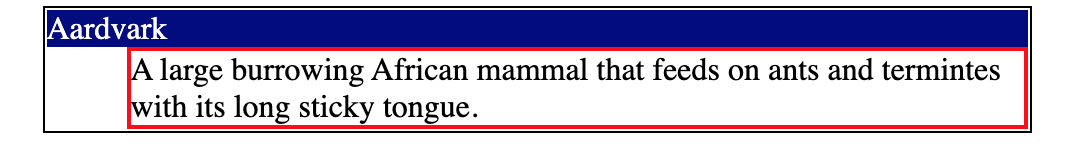
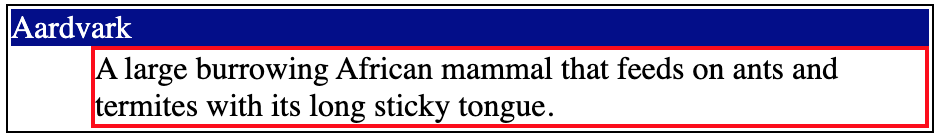
build/refactor: implemented feedback

Changed region(s): [[0.0, 0.0286, 1.0, 0.9714]]

diff --git a/content/html/concepts/tags/terms/dd/dd.md b/content/html/concepts/tags/terms/dd/dd.md
@@ -1,10 +1,11 @@
 ---
 Title: '<dd>'
-Description: ''
+Description: 'Describes details found inside a <dl> tag. It usually comes with at least one correspoinding <dt> tag.'
 Subjects:
   - 'Web Development'
   - 'Web Design'
 Tags:
+  - 'Lists'
   - 'Tags'
 CatalogContent:
   - 'learn-html'
@@ -32,13 +33,13 @@ In the example below, the `<dd>` is used (and highlighted with some styling):
 <!DOCTYPE html>
 <html>
   <head>
-    <!-- Styles are omitted for purposes of this example. -->
+    <!-- Styles are omitted in this example. -->
   </head>
   <body>
     <dl>
       <dt class="term">Aardvark</dt>
       <dd class="detail">
-        A large burrowing African mammal that feeds on ants and termintes with
+        A large burrowing African mammal that feeds on ants and termites with
         its long sticky tongue.
       </dd>
     </dl>

diff --git a/content/css/concepts/selectors/selectors.md b/content/css/concepts/selectors/selectors.md
@@ -70,7 +70,7 @@ element[attribute='value'] {
 
 The `id` of an element is unique within a page, so the `id` selector is used to select one unique element. An element can be selected with a specific `id`, by using a hash (`#`) character, followed by the `id` of the element.
 
-Multiple `class` values can be assigned to a single element. Elements are selected by `class` with a period (`.`) character, followed by the class name. Unlike `id` values, `class` values can be duplicated on a page with difference elements.
+Multiple `class` values can be assigned to a single element. Elements are selected by `class` with a period (`.`) character, followed by the class name. Unlike `id` values, `class` values can be duplicated on a page with different elements.
 
 ### Example
 

diff --git a/content/html/concepts/tags/terms/link/link.md b/content/html/concepts/tags/terms/link/link.md
@@ -29,7 +29,7 @@ The two primary attributes are:
 - A `rel` to describe the format of the external source.
 - An `href` that contains the filepath to the external source.
 
-It is a best practice that the `<link>` tag is always defined inside the [`<head>`](https://www.codecademy.com/resources/docs/html/tags/head) tag.
+It is best practice that the `<link>` tag is always defined inside the [`<head>`](https://www.codecademy.com/resources/docs/html/tags/head) tag.
 
 ## Example
 

diff --git a/content/html/concepts/links/links.md b/content/html/concepts/links/links.md
@@ -42,7 +42,7 @@ Anchor tags can be used to link to certain parts of a page with a matching `id` 
 
 ### Image Links
 
-Anything that is inside the anchor tag will be treated as a link. In this case the Codecademy logo will take the user to the Codecademy home page.
+Anything that is inside the anchor tag will be treated as a link. In this case, the Codecademy logo will take the user to the Codecademy home page.
 
 ```html
 <!-- Creating an image link -->

diff --git a/content/css/concepts/combinators/combinators.md b/content/css/concepts/combinators/combinators.md
@@ -15,7 +15,7 @@ CatalogContent:
 
 Combinators are CSS [selectors](https://www.codecademy.com/resources/docs/css/selectors) that are used to style elements that have a certain relationship with other selected elements.
 
-## Sytnax
+## Syntax
 
 ```pseudo
 selector1 selector2 ... selectorN {
